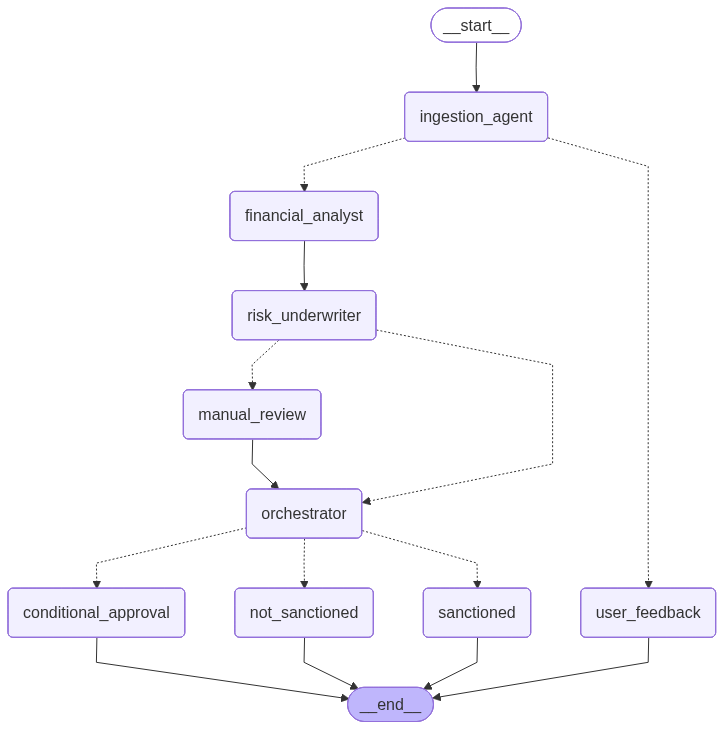
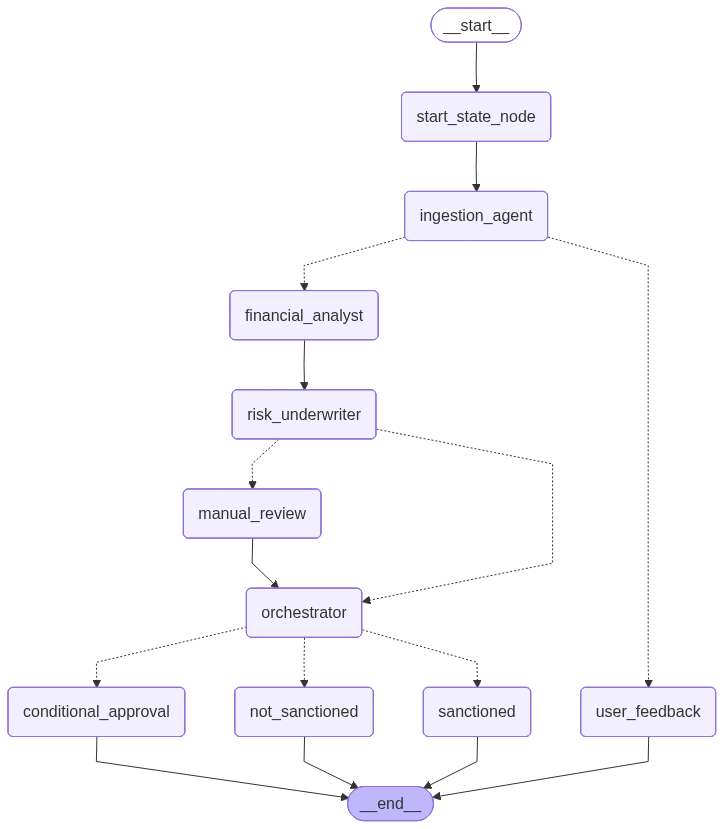
Add files via upload
Release 2 with UI and FastAPI Bakend

diff --git a/nodes.py b/nodes.py
@@ -1,3 +1,4 @@
+from nt import truncate
 import random
 import pandas as pd
 from state import FinancialAnalysis, LoanState, ExtractedBankData, UnderwritingDecision, UserData
@@ -9,9 +10,15 @@ from dotenv import load_dotenv
 load_dotenv()
 
 #ingestion_llm = ChatGoogleGenerativeAI(model="gemini-3-pro-preview")
-struct_Ingestion_llm = ChatOpenAI(model="gpt-4o-mini").with_structured_output(ExtractedBankData)
+struct_Ingestion_llm = ChatOpenAI(model="gpt-5-nano").with_structured_output(ExtractedBankData)
 struct_fin_analysis_llm = ChatOpenAI(model="gpt-4o-mini").with_structured_output(FinancialAnalysis)
-struct_risk_assess_llm = ChatOpenAI(model="gpt-4o-mini").with_structured_output(UnderwritingDecision)
+struct_risk_assess_llm = ChatOpenAI(model="gpt-4o-mini", temperature=0, max_completion_tokens=500).with_structured_output(UnderwritingDecision)
+
+#Start Node
+def start_state_node(state: LoanState):
+    print("--- 🧹 Clearing State for New Run ---")
+    return state
+
 
 #Extract Information from Bank Statement
 def extract_text_from_file(file_path: str) -> str:
@@ -25,7 +32,6 @@ def extract_text_from_file(file_path: str) -> str:
     else:
         return ""
 
-
 def ingestion_agent(state: LoanState):
     print("--- Ingesting Data ---")
     
@@ -38,28 +44,21 @@ def ingestion_agent(state: LoanState):
 
     # 1. Read & Parse Information
     raw_content = extract_text_from_file(file_path)
-            
+    print ("In INgestion: ", raw_content)
     # 2. Use LLM to extract/validate relevant info (Income, Balance, Transactions)
-    system_message = """
-    You are a Financial Ingestion Agent. Extract the following from this bank statement text:
-    - Monthly Income
-    - Total Expenses
-    - Current Balance
-    
-    Raw Content: {raw_content}
-    
+    system_message = f"""
+    Act as an Financial Expert in reading Bank Statements efficiently. 
+    Extract Monthly Income, Total Expense, and Current Balance from Raw Content {raw_content} only, 
+    use the data from the raw content.
     If the Raw Content is not a bank statement or is missing this info, reply with 'FAILURE'.
-    Otherwise, reply with 'SUCCESS' followed by the data in the following format:
-    {
-        "income": <monthly income>,
-        "expenses": <total expenses>,
-        "balance": <current balance>
-    }
+    Otherwise, reply with 'SUCCESS'. Along with the Extraction Information. 
+    Response to be provided in the format specified.
     """
+    
     try:
         # We use .invoke() here to trigger the LLM
         extraction = struct_Ingestion_llm.invoke(system_message) # Can use Truncate to save tokens
-        
+        print("Ingestion Agent : ", extraction)
         if extraction.is_valid_statement:
             # Update the existing user_data with the new extracted keys
             updated_user_data = {
@@ -80,7 +79,6 @@ def ingestion_agent(state: LoanState):
     except Exception as e:
         print(f"Extraction Error: {e}")
         return {"status_message": "Invalid Format"}
-
 
 def user_feedback_node(state: LoanState):
     print("--- User Feedback: Error & Retry ---")
@@ -104,12 +102,12 @@ def financial_analyst_agent(state: LoanState):
     system_promt = f"""
     You are a Senior Financial Analyst for loan approval. Analyze the user data {state['user_data']} &  
     {state['raw_financial_text']} for the following:
-    - Monthly Income
+    - Monthly Salary
     - Total Expenses
     - Requested Loan
 
     Tasks:
-    1. Calculate the DTI (Debt-to-Income) ratio strictly as (Expenses / Income).
+    1. Calculate the DTI (Debt-to-Income) ratio strictly as (Expenses / Salary).
     2. Assess if the user's spending is sustainable.
     3. Categorize the user based on the DTI: 
        - DTI < 0.4: Stable
@@ -144,8 +142,9 @@ def risk_underwriter_agent(state: LoanState):
     You are a Bank Risk Underwriter for Loan Sanction. Evaluate this loan application based on these internal policies:   
     POLICY:
     - If DTI > 0.6: Flag for Review or Reject.
-    - If Category is 'Stable' and DTI < 0.4: Proceed.
+    - If Financial Category is 'Stable' and DTI < 0.4: Proceed.
     - If the Loan Amount is > $50,000 and Category is 'Moderate', always 'Flag for Review'.
+    - Go trough the Raw Statement and check for the irregularities in the transactions.
 
     APPLICATION DATA:
     - Debt-to-Income Ratio: {dti}
@@ -153,7 +152,6 @@ def risk_underwriter_agent(state: LoanState):
     - Requested Amount: {requested_amt}
     - Raw Statement: {raw_statement}
 
-    Go trough the Raw Statement and check of the irregularities in the transactions.
     Determine if we should Proceed, Reject, or if there are irregularities requiring 'Flag for Review'.
     """
 
@@ -167,7 +165,6 @@ def risk_underwriter_agent(state: LoanState):
         "reasoning": f"Underwriting Complete: {decision_data.summary}",
         "status_message": decision_data.decision
     }
-
 
 def manual_review_node(state: LoanState):
     print("--- Human-in-the-Loop: Manual Review ---")

diff --git a/main.py b/main.py
@@ -1,5 +1,6 @@
 import os
 from langgraph.graph import StateGraph, END
+import uuid
 
 # Import local modules based on our folder structure
 from state import LoanState
@@ -13,6 +14,7 @@ def build_loan_graph():
     workflow = StateGraph(LoanState)
 
     # 2. Add Nodes (The "Boxes" in your image)
+    workflow.add_node("start_state_node", nodes.start_state_node)
     workflow.add_node("ingestion_agent", nodes.ingestion_agent)
     workflow.add_node("user_feedback", nodes.user_feedback_node)
     workflow.add_node("financial_analyst", nodes.financial_analyst_agent)
@@ -26,7 +28,8 @@ def build_loan_graph():
     # 3. Define the Flow (Edges)
     
     # Entry point
-    workflow.set_entry_point("ingestion_agent")
+    workflow.set_entry_point("start_state_node")
+
 
     # Edge: Ingestion -> Feedback OR Analyst
     workflow.add_conditional_edges(
@@ -39,6 +42,7 @@ def build_loan_graph():
     )
 
     # Standard Edges
+    workflow.add_edge("start_state_node", "ingestion_agent")
     workflow.add_edge("user_feedback", END)
     workflow.add_edge("financial_analyst", "risk_underwriter")
 
@@ -74,10 +78,15 @@ def build_loan_graph():
     # 4. Compile the Graph
     return workflow.compile()
 
+
+loan_app = build_loan_graph()
+
+"""
 if __name__ == "__main__":
     # Create the executable app
     app = build_loan_graph()
 
+    #Create the LangGraph Flow Diagram
     png_bytes = app.get_graph().draw_mermaid_png(
         draw_method=MermaidDrawMethod.API,
     )
@@ -87,16 +96,21 @@ if __name__ == "__main__":
     
     # Initial state to simulate a loan application
     initial_input = {
-        "user_data": {"name": "Mr.Jack", "requested_amount": 500000},
+        "user_data": {"name": "Mr.Jack", "requested_amount": 50000},
         "status_message": "",
     }
 
     print("--- Starting Loan Sanction Process ---\n")
     
+    #config = {"configurable": {"thread_id": str(uuid.uuid4()) } }
+    #final_outcome = app.invoke(initial_input, config=config)
+
+
     # Run the graph and stream the steps
 
     for output in app.stream(initial_input):
         for key, value in output.items():
             print(f"Node '{key}' completed.")
             if "final_decision" in value:
-                print(f"FINAL RESULT: {value['final_decision']}")
+                print(f"FINAL RESULT: {value['final_decision']}") 
+"""

diff --git a/ui.py b/ui.py
@@ -1,0 +1,47 @@
+import streamlit as st
+import requests
+import os
+
+st.title("🏦 AI Bank Loan ")
+
+# 1. User Inputs
+name = st.text_input("Applicant Name")
+amount = st.number_input("Requested Loan Amount", min_value=1000)
+uploaded_file = st.file_uploader("Upload Bank Statement (PDF/CSV)", type=["pdf", "csv"])
+
+if st.button("Submit Application"):
+    if uploaded_file and name:
+        # 2. Save file locally so the Agent can read the path
+        os.makedirs("temp_uploads", exist_ok=True)
+        file_path = os.path.join("temp_uploads", uploaded_file.name)
+        with open(file_path, "wb") as f:
+            f.write(uploaded_file.getbuffer())
+
+        # 3. Call the FastAPI backend
+        payload = {
+            "name": name,
+            "file_path": file_path,
+            "amount": amount
+        }
+        
+        with st.spinner("Agents are analyzing your statement..."):
+            response = requests.post("http://127.0.0.1:8000/ai_loan", json=payload)
+            
+            if response.status_code == 200:
+                result = response.json()
+                
+                # 4. Display Results
+                st.success(f"Status: {result.get('final_decision')}")
+                st.metric("DTI Ratio", f"{result.get('dti_ratio', 0):.2f}")
+                st.write(f"**Risk Category:** {result.get('financial_category')}")
+                #st.write(f"Result : ", result)
+                
+                if result.get("irregularities_found"):
+                    st.warning("⚠ Irregularity Found. This application has been flagged for Manual Review.")
+                else:
+                    st.balloons()
+                    st.info("✅ Application processed successfully.")
+            else:
+                st.error("Error processing application.")
+    else:
+        st.error("Please fill in all fields and upload a file.")

diff --git a/state.py b/state.py
@@ -10,18 +10,19 @@ class UnderwritingDecision(BaseModel):
 
 # Schema for the Analyst's output
 class FinancialAnalysis(BaseModel):
-    dti_ratio: float = Field(description="Debt-to-Income ratio calculated as total_expenses / monthly_income")
+    dti_ratio: float = Field(description="Debt-to-Income ratio calculated as total expenses / monthly income")
     financial_category: str = Field(description="Categorize as 'Stable', 'High Risk', or 'Moderate'")
     reasoning: str = Field(description="Brief explanation of the financial health assessment")
 
 # Schema for the Ingestion Agents's Output
 class ExtractedBankData(BaseModel):
-    monthly_income: float = Field(description="Total income per month")
-    total_expenses: float = Field(description="Total expenses per month")
+    monthly_income: float = Field(description="Extract the transaction which mentions Deposit")
+    total_expenses: float = Field(description="Add all the expenses from the Bank Statement")
     current_balance: float = Field(description="The ending balance on the statement")
-    is_valid_statement: bool = Field(description="True if the Content is a valid bank statement")
+    is_valid_statement: bool = Field(description="True if the Raw Content is a valid bank statement")
 
 class UserData(TypedDict):
+    name: Optional[str]
     email: Optional[str]
     mobile: Optional[str]
     requested_amount: float

diff --git a/server.py b/server.py
@@ -1,0 +1,32 @@
+from fastapi import FastAPI, HTTPException
+from pydantic import BaseModel
+import uvicorn
+from main import loan_app
+
+server = FastAPI()
+
+class LoanRequest(BaseModel):
+    name: str
+    file_path: str
+    amount: float
+
+@server.post("/ai_loan")
+async def process_loan(request: LoanRequest):
+    # Prepare the initial state for LangGraph
+    initial_state = {
+        "user_data": {
+            "name": request.name,
+            "file_path": request.file_path,
+            "requested_amount": request.amount
+        }
+    }
+    
+    try:
+        # Run the graph (using ainvoke because FastAPI is async)
+        final_state = await loan_app.ainvoke(initial_state)
+        return final_state
+    except Exception as e:
+        raise HTTPException(status_code=500, detail=str(e))
+
+if __name__ == "__main__":
+    uvicorn.run(server, host="127.0.0.1", port=8000)

diff --git a/edges.py b/edges.py
@@ -28,9 +28,9 @@ def route_final_decision(state: LoanState):
     - Uncertain -> Conditional Approval
     """
     dti = state.get("dti_ratio", 1.0)
-    stable = state.get("is_stable", False)
+    irr_found = state.get("irregularities_found", False)
 
-    if dti <= 0.40 and stable:
+    if dti <= 0.40 and not irr_found:
         return "sanctioned"
     elif dti > 0.60: # Example logic for 'No'
         return "not_sanctioned"
